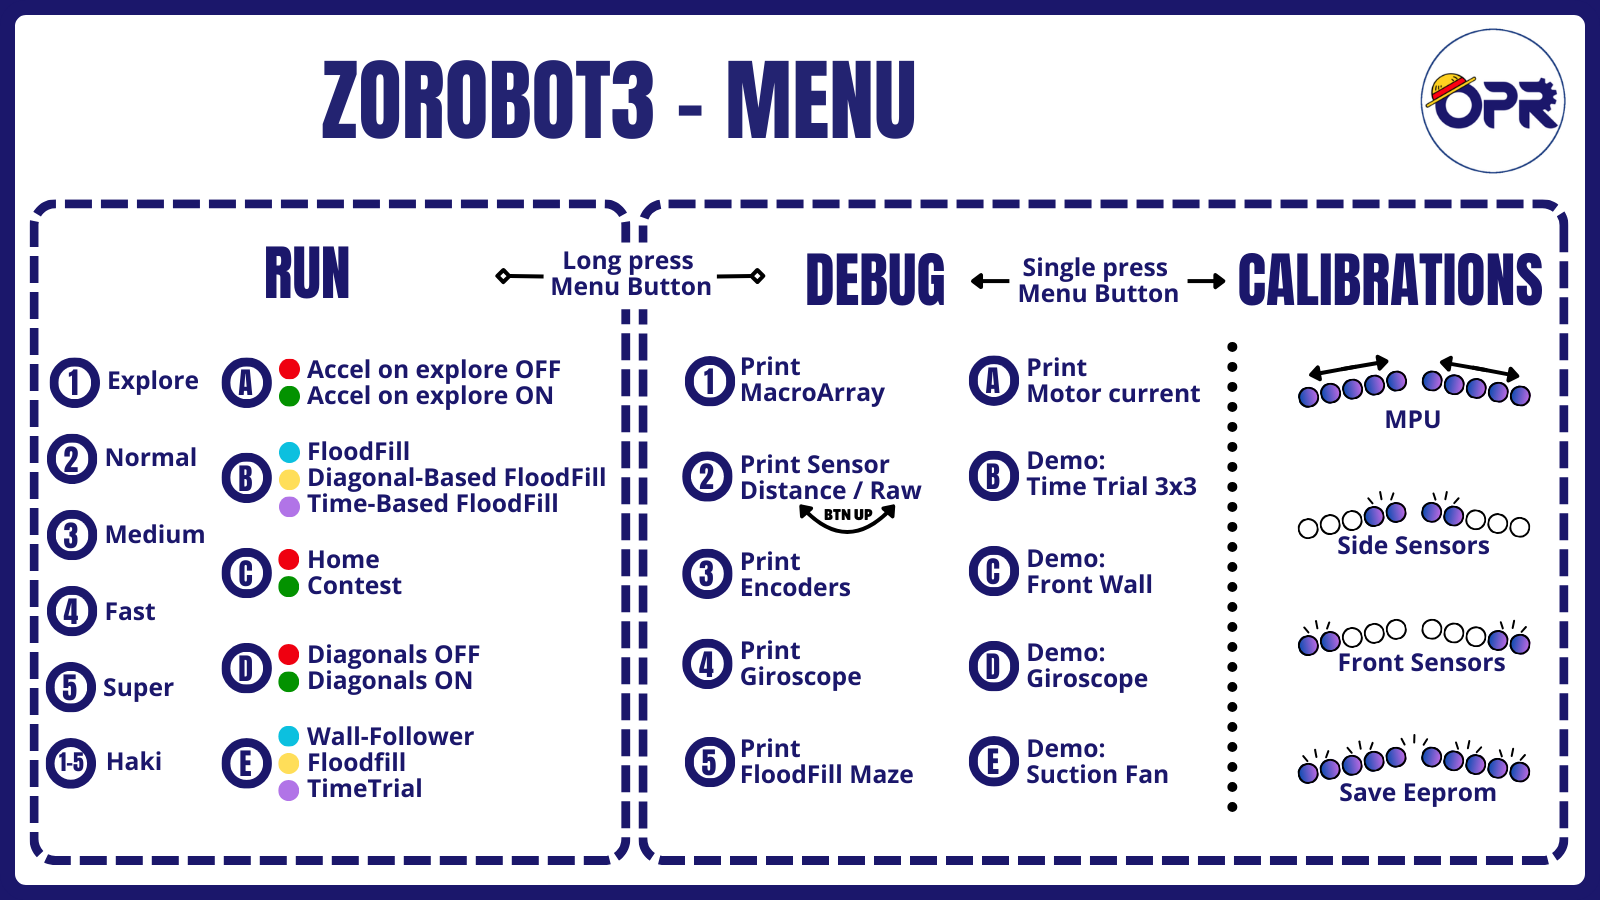
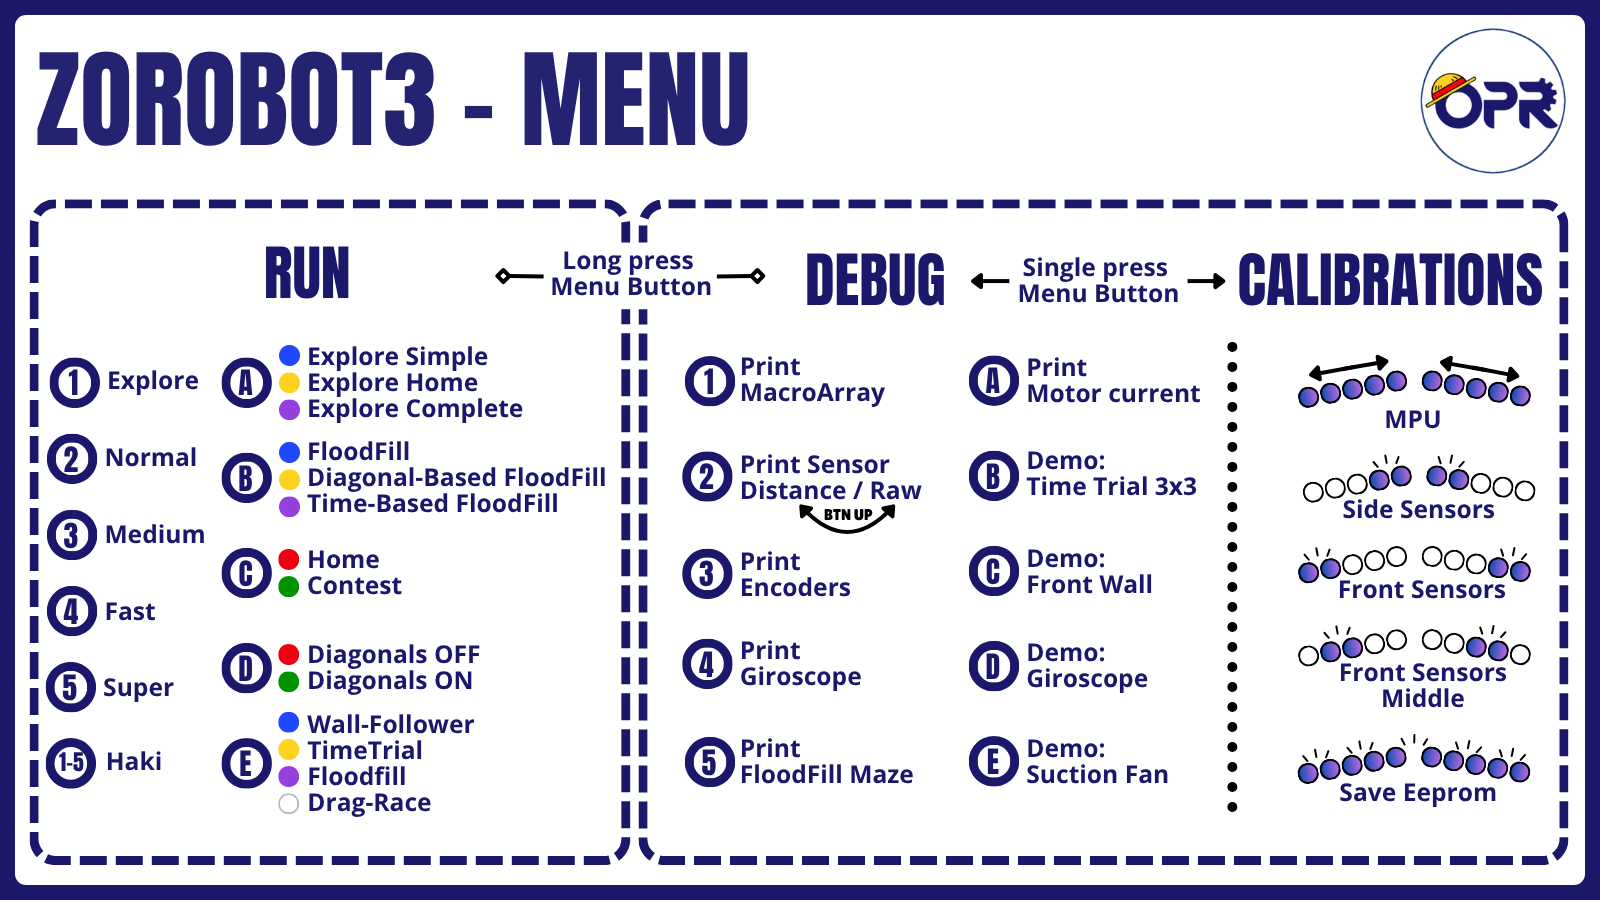
Mejora menú con constantes y nueva imagen

diff --git a/source_code/src/menu_run.c b/source_code/src/menu_run.c
@@ -110,25 +110,31 @@ static void handle_menu_run_values(void) {
   }
 
   if (modeRun == MODE_MAZE_TYPE) {
-    if (valueRun[modeRun] == 1) {
-      set_RGB_color(0, 50, 0);
-    } else {
-      set_RGB_color(0, 0, 0);
+    switch (valueRun[modeRun]) {
+      case MAZE_COMPETITION:
+        set_RGB_color(0, 50, 0);
+        break;
+      case MAZE_HOME:
+        set_RGB_color(0, 0, 0);
+        break;
     }
     set_info_led(INFO_LED_C, blinkState);
   } else {
-    set_info_led(INFO_LED_C, valueRun[MODE_MAZE_TYPE] == 1);
+    set_info_led(INFO_LED_C, valueRun[MODE_MAZE_TYPE] == MAZE_COMPETITION);
   }
 
   if (modeRun == MODE_SOLVE_STRATEGY) {
-    if (valueRun[modeRun] == 1) {
-      set_RGB_color(0, 50, 0);
-    } else {
-      set_RGB_color(0, 0, 0);
+    switch (valueRun[modeRun]) {
+      case SOLVE_DIAGONALS:
+        set_RGB_color(0, 50, 0);
+        break;
+      case SOLVE_STANDARD:
+        set_RGB_color(0, 0, 0);
+        break;
     }
     set_info_led(INFO_LED_D, blinkState);
   } else {
-    set_info_led(INFO_LED_D, valueRun[MODE_SOLVE_STRATEGY] == 1);
+    set_info_led(INFO_LED_D, valueRun[MODE_SOLVE_STRATEGY] == SOLVE_DIAGONALS);
   }
 
   if (modeRun == MODE_EXPLORE_ALGORITHM) {
@@ -144,7 +150,7 @@ static void handle_menu_run_values(void) {
         break;
       case EXPLORE_DRAGRACE:
         set_RGB_color(50, 50, 50);
-      break;
+        break;
       default:
         set_RGB_color(0, 0, 0);
         break;
